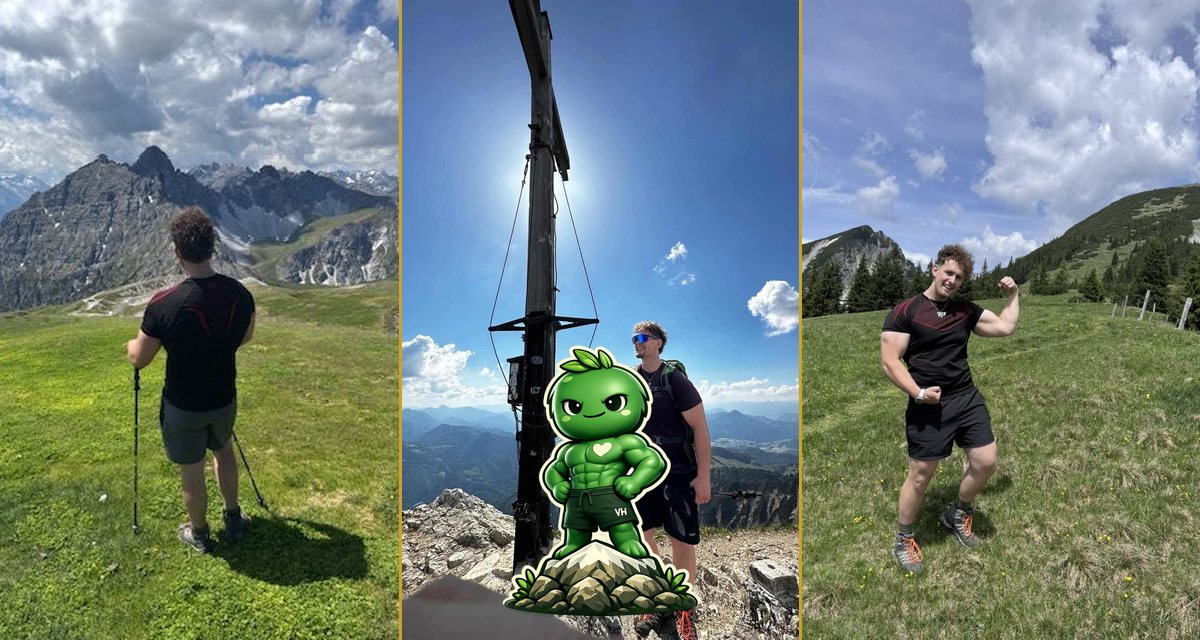
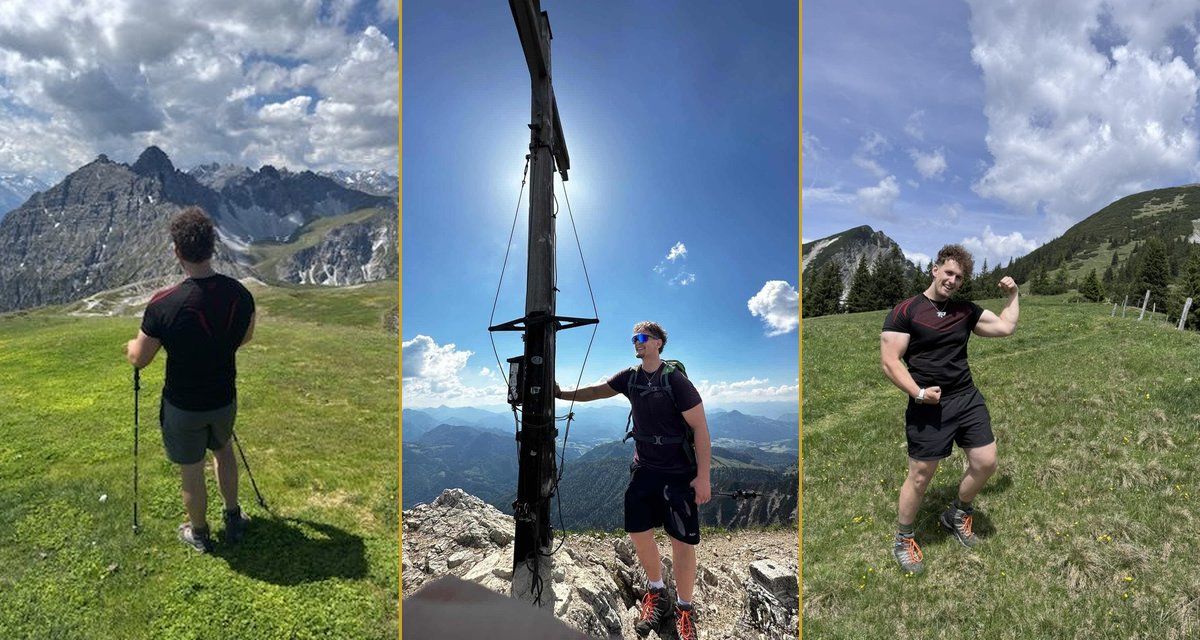
feat(email): v6 — durchgehender Forest-Gradient-Flow, Boxen/Bubbles raus (Touren editorial, Smashie inline), Smashie aus Collage entfernt (?v=3)

Changed region(s): [[0.4008, 0.5312, 0.5858, 0.9688]]

diff --git a/email-templates/welcome-berg-starter.html b/email-templates/welcome-berg-starter.html
@@ -1,154 +1,133 @@
 <!--
   ============================================================
-  VegetarianHulk — Willkommens-Mail „Berg-Starter" (v5)
-  Forest-Frame (dunkelgrün) + Foto-Hero + ausgebauter Footer.
+  VegetarianHulk — Willkommens-Mail „Berg-Starter" (v6)
+  Durchgehender Forest-Gradient-Flow · KEINE Boxen/Bubbles · editorial.
   Brevo HTML-Editor: kompletten Code (ab erstem <table> bis letztem </table>) einfügen.
-  Betreff:      Dein Berg-Starter ist da.
-  Vorschautext: Deine 3 Touren zum Reinkommen — und wie ich selbst angefangen hab.
+  Betreff:      Willkommen — dein Berg-Starter ist da 🏔
+  Vorschautext: Deine 3 Touren zum Reinkommen, die Packliste, und wie ich selbst angefangen hab.
   Merge-Tag:    {{ contact.VORNAME | default : "du" }}   ·   Pflicht: {{ unsubscribe }}
-  FOTO:         src -> Brevo-Upload-URL eintragen ODER Site-URL (live ab Launch).
-                Aktuell: Site-URL (zeigt im Test evtl. Platzhalter, live ab Launch ok).
+  Gradient = Progressive Enhancement (Apple/iOS/Gmail-App); solide bg-color als Outlook-Fallback.
   ============================================================
 -->
-<table role="presentation" width="100%" cellpadding="0" cellspacing="0" border="0" style="margin:0;padding:0;background-color:#0A1E13;background-image:linear-gradient(180deg,#0C2417 0%,#071710 100%);">
-<tr><td align="center" style="padding:36px 12px;">
+<table role="presentation" width="100%" cellpadding="0" cellspacing="0" border="0" style="margin:0;padding:0;background-color:#06140D;">
+<tr><td align="center" style="padding:34px 12px;">
 
-<div style="display:none;max-height:0;overflow:hidden;opacity:0;mso-hide:all;font-size:1px;line-height:1px;color:#0A1E13;">Deine 3 Touren zum Reinkommen, die Packliste, und wie ich selbst angefangen hab.</div>
+<div style="display:none;max-height:0;overflow:hidden;opacity:0;mso-hide:all;font-size:1px;line-height:1px;color:#06140D;">Deine 3 Touren zum Reinkommen, die Packliste, und wie ich selbst angefangen hab.</div>
 
-<!-- KARTE -->
-<table role="presentation" width="600" cellpadding="0" cellspacing="0" border="0" style="width:600px;max-width:600px;background-color:#FBF6EA;border-radius:24px;overflow:hidden;box-shadow:0 30px 70px -24px rgba(0,0,0,0.6);">
+<!-- KARTE = ein Gradient-Flow -->
+<table role="presentation" width="600" cellpadding="0" cellspacing="0" border="0" style="width:600px;max-width:600px;background-color:#0B2418;background-image:radial-gradient(90% 40% at 50% 8%, rgba(126,208,155,0.12) 0%, rgba(126,208,155,0) 60%), linear-gradient(168deg,#164A2B 0%,#0F3520 20%,#0B2418 46%,#0A2016 72%,#07180E 100%);border-radius:24px;overflow:hidden;box-shadow:0 30px 70px -24px rgba(0,0,0,0.7);">
 
-  <!-- Hero-Foto -->
+  <!-- Foto-Collage (nur Fotos) -->
   <tr><td style="font-size:0;line-height:0;background-color:#0B2418;">
-    <img src="https://vegetarianhulk.de/email-templates/assets/hero-collage-mail.jpg?v=2" width="600" alt="Sebi am Berg — Panorama, Gipfelkreuz, Flex — mit Maskottchen Smashie" style="display:block;width:100%;max-width:600px;height:auto;border:0;">
+    <img src="https://vegetarianhulk.de/email-templates/assets/hero-collage-mail.jpg?v=3" width="600" alt="Sebi am Berg — Panorama, Gipfelkreuz, Flex" style="display:block;width:100%;max-width:600px;height:auto;border:0;">
   </td></tr>
 
   <!-- Masthead -->
-  <tr><td align="center" style="background-color:#0B2418;background-image:linear-gradient(158deg,#134026 0%,#0B2418 60%,#05130C 100%);padding:18px 24px 16px 24px;">
+  <tr><td align="center" style="padding:22px 24px 0 24px;">
     <div style="font-family:Helvetica,Arial,sans-serif;font-size:14px;font-weight:700;letter-spacing:0.36em;color:#F3EBD9;">VEGETARIAN<span style="color:#7ED09B;">HULK</span></div>
     <div style="margin-top:7px;font-family:Georgia,'Times New Roman',serif;font-style:italic;font-size:12.5px;color:#8FB79C;">aus den Bergen · seit 2016</div>
+    <div style="margin:18px auto 0;width:46px;height:2px;background-color:#C9A227;font-size:0;line-height:2px;">&nbsp;</div>
   </td></tr>
-  <tr><td style="height:3px;background-color:#C9A227;background-image:linear-gradient(90deg,#B8901E,#F0CB4B,#B8901E);line-height:3px;font-size:0;">&nbsp;</td></tr>
 
   <!-- Intro -->
-  <tr><td style="background-color:#FBF6EA;background-image:linear-gradient(180deg,#FDFAF1 0%,#FBF6EA 40%);padding:40px 46px 0 46px;">
-    <div style="font-family:Helvetica,Arial,sans-serif;font-size:11px;font-weight:700;letter-spacing:0.22em;text-transform:uppercase;color:#9A7A10;">Willkommen · dein Berg-Starter</div>
-    <h1 style="margin:14px 0 0 0;font-family:Georgia,'Times New Roman',serif;font-size:38px;line-height:1.08;font-weight:700;color:#14281C;letter-spacing:-0.5px;">Schön, dass du <span style="font-style:italic;color:#1a7340;">da bist.</span></h1>
-    <p style="margin:22px 0 0 0;font-family:Helvetica,Arial,sans-serif;font-size:16px;line-height:1.66;color:#3f4b42;">Hey {{ contact.VORNAME | default : "du" }}, wie versprochen — dein <strong style="color:#14281C;">Berg-Starter</strong>. Drei Touren zum Reinkommen, was wirklich in den Rucksack gehört, und ehrlich, wie ich selbst angefangen hab (mit viel zu schwerem Zeug und Baumwoll-Shirt am Grat).</p>
+  <tr><td style="padding:30px 46px 0 46px;">
+    <div style="font-family:Helvetica,Arial,sans-serif;font-size:11px;font-weight:700;letter-spacing:0.22em;text-transform:uppercase;color:#D8B24A;">Willkommen · dein Berg-Starter</div>
+    <h1 style="margin:14px 0 0 0;font-family:Georgia,'Times New Roman',serif;font-size:39px;line-height:1.08;font-weight:700;color:#F5EEDD;letter-spacing:-0.5px;">Schön, dass du <span style="font-style:italic;color:#7ED09B;">da bist.</span></h1>
+    <p style="margin:22px 0 0 0;font-family:Helvetica,Arial,sans-serif;font-size:16px;line-height:1.68;color:#C4D0C4;">Hey {{ contact.VORNAME | default : "du" }}, wie versprochen — dein <strong style="color:#F5EEDD;">Berg-Starter</strong>. Drei Touren zum Reinkommen, was wirklich in den Rucksack gehört, und ehrlich, wie ich selbst angefangen hab (mit viel zu schwerem Zeug und Baumwoll-Shirt am Grat).</p>
   </td></tr>
 
-  <!-- Eyebrow Touren -->
-  <tr><td style="padding:32px 46px 0 46px;">
+  <!-- Touren-Eyebrow -->
+  <tr><td style="padding:34px 46px 0 46px;">
     <table role="presentation" width="100%" cellpadding="0" cellspacing="0" border="0"><tr>
       <td width="26" style="padding-right:12px;"><div style="height:2px;background-color:#C9A227;font-size:0;line-height:2px;">&nbsp;</div></td>
-      <td style="font-family:Helvetica,Arial,sans-serif;font-size:11px;font-weight:700;letter-spacing:0.2em;text-transform:uppercase;color:#9A7A10;white-space:nowrap;">Deine 3 Touren zum Reinkommen</td>
-      <td style="padding-left:12px;width:100%;"><div style="height:2px;background-color:#E4D6B0;font-size:0;line-height:2px;">&nbsp;</div></td>
+      <td style="font-family:Helvetica,Arial,sans-serif;font-size:11px;font-weight:700;letter-spacing:0.2em;text-transform:uppercase;color:#D8B24A;white-space:nowrap;">Deine 3 Touren zum Reinkommen</td>
+      <td style="padding-left:12px;width:100%;"><div style="height:1px;background-color:#254A34;font-size:0;line-height:1px;">&nbsp;</div></td>
     </tr></table>
   </td></tr>
 
-  <!-- Touren-Teaser -->
-  <tr><td style="padding:18px 46px 0 46px;">
-    <table role="presentation" width="100%" cellpadding="0" cellspacing="0" border="0" style="background-color:#F3E9D2;background-image:linear-gradient(180deg,#F7EED9 0%,#EEE1C2 100%);border:1px solid #E2D3A9;border-radius:16px;box-shadow:inset 0 1px 0 rgba(255,255,255,0.7),0 12px 26px -16px rgba(11,36,24,0.3);">
-      <tr><td style="padding:22px 24px;">
-        <table role="presentation" width="100%" cellpadding="0" cellspacing="0" border="0"><tr>
-          <td width="48" valign="top" style="font-family:Georgia,'Times New Roman',serif;font-size:28px;font-weight:700;color:#C39B1E;line-height:0.9;">01</td>
-          <td valign="top">
-            <div style="font-family:Georgia,'Times New Roman',serif;font-size:19px;font-weight:700;color:#14281C;">Grünstein <span style="font-family:Helvetica,Arial,sans-serif;font-size:11px;font-weight:700;letter-spacing:0.06em;color:#6a7a6f;">1.304 m · Berchtesgaden</span></div>
-            <div style="margin-top:3px;font-family:Helvetica,Arial,sans-serif;font-size:14px;line-height:1.5;color:#5a6a5f;">Hütte, Postkarten-Blick über den Königssee.</div>
-          </td>
-        </tr></table>
-        <div style="height:1px;background-color:#E2D3A9;font-size:0;line-height:1px;margin:16px 0;">&nbsp;</div>
-        <table role="presentation" width="100%" cellpadding="0" cellspacing="0" border="0"><tr>
-          <td width="48" valign="top" style="font-family:Georgia,'Times New Roman',serif;font-size:28px;font-weight:700;color:#C39B1E;line-height:0.9;">02</td>
-          <td valign="top">
-            <div style="font-family:Georgia,'Times New Roman',serif;font-size:19px;font-weight:700;color:#14281C;">Zinnkopf <span style="font-family:Helvetica,Arial,sans-serif;font-size:11px;font-weight:700;letter-spacing:0.06em;color:#6a7a6f;">1.227 m · Chiemgau</span></div>
-            <div style="margin-top:3px;font-family:Helvetica,Arial,sans-serif;font-size:14px;line-height:1.5;color:#5a6a5f;">Einsam, Gipfelkreuz — zum Runterkommen.</div>
-          </td>
-        </tr></table>
-        <div style="height:1px;background-color:#E2D3A9;font-size:0;line-height:1px;margin:16px 0;">&nbsp;</div>
-        <table role="presentation" width="100%" cellpadding="0" cellspacing="0" border="0"><tr>
-          <td width="48" valign="top" style="font-family:Georgia,'Times New Roman',serif;font-size:28px;font-weight:700;color:#C39B1E;line-height:0.9;">03</td>
-          <td valign="top">
-            <div style="font-family:Georgia,'Times New Roman',serif;font-size:19px;font-weight:700;color:#14281C;">Dürrnbachhorn <span style="font-family:Helvetica,Arial,sans-serif;font-size:11px;font-weight:700;letter-spacing:0.06em;color:#6a7a6f;">1.776 m · Chiemgau</span></div>
-            <div style="margin-top:3px;font-family:Helvetica,Arial,sans-serif;font-size:14px;line-height:1.5;color:#5a6a5f;">Weitblick übers Umland, Latschen-Grat.</div>
-          </td>
-        </tr></table>
-      </td></tr>
-    </table>
+  <!-- Touren als editoriale Liste (KEINE Box) -->
+  <tr><td style="padding:20px 46px 0 46px;">
+    <table role="presentation" width="100%" cellpadding="0" cellspacing="0" border="0"><tr>
+      <td width="52" valign="top" style="font-family:Georgia,'Times New Roman',serif;font-size:30px;font-weight:700;color:#D8B24A;line-height:0.9;">01</td>
+      <td valign="top">
+        <div style="font-family:Georgia,'Times New Roman',serif;font-size:20px;font-weight:700;color:#F3EBD9;">Grünstein <span style="font-family:Helvetica,Arial,sans-serif;font-size:11px;font-weight:700;letter-spacing:0.06em;color:#8FB79C;">1.304 m · Berchtesgaden</span></div>
+        <div style="margin-top:3px;font-family:Helvetica,Arial,sans-serif;font-size:14px;line-height:1.55;color:#A6B4A8;">Hütte, Postkarten-Blick über den Königssee.</div>
+      </td>
+    </tr></table>
+    <div style="height:1px;background-color:#213E2C;font-size:0;line-height:1px;margin:17px 0;">&nbsp;</div>
+    <table role="presentation" width="100%" cellpadding="0" cellspacing="0" border="0"><tr>
+      <td width="52" valign="top" style="font-family:Georgia,'Times New Roman',serif;font-size:30px;font-weight:700;color:#D8B24A;line-height:0.9;">02</td>
+      <td valign="top">
+        <div style="font-family:Georgia,'Times New Roman',serif;font-size:20px;font-weight:700;color:#F3EBD9;">Zinnkopf <span style="font-family:Helvetica,Arial,sans-serif;font-size:11px;font-weight:700;letter-spacing:0.06em;color:#8FB79C;">1.227 m · Chiemgau</span></div>
+        <div style="margin-top:3px;font-family:Helvetica,Arial,sans-serif;font-size:14px;line-height:1.55;color:#A6B4A8;">Einsam, Gipfelkreuz — zum Runterkommen.</div>
+      </td>
+    </tr></table>
+    <div style="height:1px;background-color:#213E2C;font-size:0;line-height:1px;margin:17px 0;">&nbsp;</div>
+    <table role="presentation" width="100%" cellpadding="0" cellspacing="0" border="0"><tr>
+      <td width="52" valign="top" style="font-family:Georgia,'Times New Roman',serif;font-size:30px;font-weight:700;color:#D8B24A;line-height:0.9;">03</td>
+      <td valign="top">
+        <div style="font-family:Georgia,'Times New Roman',serif;font-size:20px;font-weight:700;color:#F3EBD9;">Dürrnbachhorn <span style="font-family:Helvetica,Arial,sans-serif;font-size:11px;font-weight:700;letter-spacing:0.06em;color:#8FB79C;">1.776 m · Chiemgau</span></div>
+        <div style="margin-top:3px;font-family:Helvetica,Arial,sans-serif;font-size:14px;line-height:1.55;color:#A6B4A8;">Weitblick übers Umland, Latschen-Grat.</div>
+      </td>
+    </tr></table>
   </td></tr>
 
-  <!-- Smashie spricht dich an -->
-  <tr><td style="padding:26px 46px 0 46px;">
+  <!-- Smashie spricht — KEINE Box, nur Figur + Zitat -->
+  <tr><td style="padding:30px 46px 0 46px;">
     <table role="presentation" width="100%" cellpadding="0" cellspacing="0" border="0"><tr>
-      <td width="82" valign="top" style="padding-right:14px;">
-        <img src="https://vegetarianhulk.de/assets/img/smashy-maskottchen.png" width="74" alt="Smashie, das VegetarianHulk-Maskottchen" style="display:block;width:74px;height:auto;border:0;">
+      <td width="80" valign="top" style="padding-right:16px;">
+        <img src="https://vegetarianhulk.de/assets/img/smashy-maskottchen.png" width="72" alt="Smashie, das VegetarianHulk-Maskottchen" style="display:block;width:72px;height:auto;border:0;">
       </td>
-      <td valign="top" style="background-color:#0B2418;background-image:linear-gradient(158deg,#123B23 0%,#0B2418 100%);border-radius:14px;padding:14px 18px;">
+      <td valign="middle">
         <div style="font-family:Helvetica,Arial,sans-serif;font-size:10px;font-weight:700;letter-spacing:0.2em;text-transform:uppercase;color:#7ED09B;">Smashie sagt</div>
-        <div style="margin-top:5px;font-family:Georgia,'Times New Roman',serif;font-size:15.5px;line-height:1.5;color:#EDE4CF;">Fang mit <strong style="color:#FFFFFF;">Grünstein</strong> an — Hütte oben, Blick über den Königssee. Der perfekte erste Gipfel. Wir sehen uns da. 🌱</div>
+        <div style="margin-top:6px;font-family:Georgia,'Times New Roman',serif;font-style:italic;font-size:16.5px;line-height:1.5;color:#E7DEC8;">„Fang mit <span style="color:#F5EEDD;font-style:normal;font-weight:700;">Grünstein</span> an — Hütte oben, Blick über den Königssee. Wir sehen uns da." 🌱</div>
       </td>
     </tr></table>
   </td></tr>
 
   <!-- CTA -->
-  <tr><td align="center" style="padding:28px 46px 6px 46px;">
+  <tr><td align="center" style="padding:32px 46px 6px 46px;">
     <table role="presentation" cellpadding="0" cellspacing="0" border="0"><tr>
-      <td align="center" bgcolor="#E4B824" style="border-radius:13px;background-color:#E4B824;background-image:linear-gradient(180deg,#F4CE3C 0%,#E4B824 52%,#C99C12 100%);box-shadow:0 12px 24px -8px rgba(176,133,12,0.55);">
-        <a href="https://vegetarianhulk.de/berg-starter/" target="_blank" style="display:inline-block;padding:17px 38px;font-family:Helvetica,Arial,sans-serif;font-size:14px;font-weight:700;letter-spacing:0.09em;text-transform:uppercase;color:#14100A;text-decoration:none;border-radius:13px;">Alle 3 Touren öffnen &nbsp;&rarr;</a>
+      <td align="center" bgcolor="#E4B824" style="border-radius:13px;background-color:#E4B824;background-image:linear-gradient(180deg,#F6D24A 0%,#E4B824 52%,#C6980F 100%);box-shadow:0 14px 30px -8px rgba(230,184,36,0.4);">
+        <a href="https://vegetarianhulk.de/berg-starter/" target="_blank" style="display:inline-block;padding:17px 40px;font-family:Helvetica,Arial,sans-serif;font-size:14px;font-weight:700;letter-spacing:0.09em;text-transform:uppercase;color:#14100A;text-decoration:none;border-radius:13px;">Alle 3 Touren öffnen &nbsp;&rarr;</a>
       </td>
     </tr></table>
-    <div style="margin-top:13px;font-family:Helvetica,Arial,sans-serif;font-size:12px;color:#9a8f78;">Plus Packliste &amp; wie ich selbst reingekommen bin.</div>
+    <div style="margin-top:13px;font-family:Helvetica,Arial,sans-serif;font-size:12px;color:#7E9184;">Plus Packliste &amp; wie ich selbst reingekommen bin.</div>
   </td></tr>
 
   <!-- Close -->
-  <tr><td style="padding:28px 46px 0 46px;">
-    <p style="margin:0;font-family:Helvetica,Arial,sans-serif;font-size:16px;line-height:1.66;color:#3f4b42;">Ab jetzt meldet sich ab und zu ein kurzer Brief von mir: neue Touren zuerst, ehrliche Gedanken, ab und zu ein Vers, der mich trägt. Kein Spam, kein Verkaufs-Blabla.</p>
+  <tr><td style="padding:30px 46px 0 46px;">
+    <p style="margin:0;font-family:Helvetica,Arial,sans-serif;font-size:16px;line-height:1.68;color:#C4D0C4;">Ab jetzt meldet sich ab und zu ein kurzer Brief von mir: neue Touren zuerst, ehrliche Gedanken, ab und zu ein Vers, der mich trägt. Kein Spam, kein Verkaufs-Blabla.</p>
   </td></tr>
 
   <!-- Signatur -->
-  <tr><td style="padding:26px 46px 40px 46px;">
-    <p style="margin:0;font-family:Georgia,'Times New Roman',serif;font-style:italic;font-size:20px;line-height:1.4;color:#14281C;">Man sieht sich am Berg.</p>
-    <p style="margin:8px 0 0 0;font-family:Helvetica,Arial,sans-serif;font-size:14px;font-weight:700;letter-spacing:0.04em;color:#045927;">— Sebi</p>
+  <tr><td style="padding:26px 46px 0 46px;">
+    <p style="margin:0;font-family:Georgia,'Times New Roman',serif;font-style:italic;font-size:21px;line-height:1.4;color:#F5EEDD;">Man sieht sich am Berg.</p>
+    <p style="margin:8px 0 0 0;font-family:Helvetica,Arial,sans-serif;font-size:14px;font-weight:700;letter-spacing:0.04em;color:#7ED09B;">— Sebi</p>
   </td></tr>
 
-</table>
-
-<!-- ===================== FOOTER (auf Forest-BG) ===================== -->
-<table role="presentation" width="600" cellpadding="0" cellspacing="0" border="0" style="width:600px;max-width:600px;">
-
-  <!-- Anker-Vers -->
-  <tr><td align="center" style="padding:34px 40px 26px 40px;">
-    <p style="margin:0;font-family:Georgia,'Times New Roman',serif;font-style:italic;font-size:17px;line-height:1.5;color:#D9E4D6;">„Der Gerechte fällt siebenmal — und steht wieder auf."</p>
-    <p style="margin:9px 0 0 0;font-family:Helvetica,Arial,sans-serif;font-size:10px;font-weight:700;letter-spacing:0.22em;text-transform:uppercase;color:#7ED09B;">Sprüche 24,16 · Schlachter 2000</p>
+  <!-- Vers -->
+  <tr><td align="center" style="padding:34px 46px 6px 46px;">
+    <div style="width:34px;height:1px;background-color:#2C513A;margin:0 auto 20px;font-size:0;line-height:1px;">&nbsp;</div>
+    <p style="margin:0;font-family:Georgia,'Times New Roman',serif;font-style:italic;font-size:16px;line-height:1.5;color:#B9C6B8;">„Der Gerechte fällt siebenmal — und steht wieder auf."</p>
+    <p style="margin:9px 0 0 0;font-family:Helvetica,Arial,sans-serif;font-size:10px;font-weight:700;letter-spacing:0.22em;text-transform:uppercase;color:#6F9A7C;">Sprüche 24,16 · Schlachter 2000</p>
   </td></tr>
 
-  <!-- Gold-Trenner -->
-  <tr><td align="center" style="padding:0 40px;"><div style="width:44px;height:2px;background-color:#C9A227;font-size:0;line-height:2px;margin:0 auto;">&nbsp;</div></td></tr>
-
-  <!-- Wortmarke + Links -->
-  <tr><td align="center" style="padding:24px 40px 0 40px;">
-    <div style="font-family:Helvetica,Arial,sans-serif;font-size:13px;font-weight:700;letter-spacing:0.32em;color:#EDE4CF;">VEGETARIAN<span style="color:#7ED09B;">HULK</span></div>
-    <div style="margin-top:14px;font-family:Helvetica,Arial,sans-serif;font-size:13px;font-weight:600;letter-spacing:0.02em;color:#9FB6A4;">
-      <a href="https://www.instagram.com/vegetarianhulk/" target="_blank" style="color:#9FB6A4;text-decoration:none;">Instagram</a>
-      &nbsp;&nbsp;·&nbsp;&nbsp;
-      <a href="https://vegetarianhulk.de/touren/" target="_blank" style="color:#9FB6A4;text-decoration:none;">Hulk Hikes</a>
-      &nbsp;&nbsp;·&nbsp;&nbsp;
-      <a href="https://vegetarianhulk.de/kooperationen.html" target="_blank" style="color:#9FB6A4;text-decoration:none;">Kooperationen</a>
+  <!-- Footer (im Flow) -->
+  <tr><td align="center" style="padding:30px 40px 34px 40px;">
+    <div style="font-family:Helvetica,Arial,sans-serif;font-size:12px;font-weight:600;letter-spacing:0.02em;color:#8FB79C;">
+      <a href="https://www.instagram.com/vegetarianhulk/" target="_blank" style="color:#8FB79C;text-decoration:none;">Instagram</a>
+      &nbsp;·&nbsp; <a href="https://vegetarianhulk.de/touren/" target="_blank" style="color:#8FB79C;text-decoration:none;">Hulk Hikes</a>
+      &nbsp;·&nbsp; <a href="https://vegetarianhulk.de/kooperationen.html" target="_blank" style="color:#8FB79C;text-decoration:none;">Kooperationen</a>
     </div>
-  </td></tr>
-
-  <!-- Adresse / Pflicht -->
-  <tr><td align="center" style="padding:22px 40px 8px 40px;">
-    <p style="margin:0;font-family:Helvetica,Arial,sans-serif;font-size:11.5px;line-height:1.7;color:#6E7F73;">
+    <p style="margin:18px 0 0 0;font-family:Helvetica,Arial,sans-serif;font-size:11.5px;line-height:1.7;color:#5E7267;">
       Du bekommst diese Mail, weil du dich für den Berg-Starter eingetragen hast.<br>
-      Sebastian Wimmer · Burghauser Straße 35 · 84533 Haiming · <a href="mailto:info@vegetarianhulk.de" style="color:#6E7F73;">info@vegetarianhulk.de</a>
+      Sebastian Wimmer · Burghauser Straße 35 · 84533 Haiming · <a href="mailto:info@vegetarianhulk.de" style="color:#5E7267;">info@vegetarianhulk.de</a>
     </p>
-    <p style="margin:12px 0 0 0;font-family:Helvetica,Arial,sans-serif;font-size:11.5px;color:#6E7F73;">
+    <p style="margin:11px 0 0 0;font-family:Helvetica,Arial,sans-serif;font-size:11.5px;color:#5E7267;">
       <a href="https://vegetarianhulk.de/impressum.html" target="_blank" style="color:#8FB79C;text-decoration:none;">Impressum</a>
-      &nbsp;·&nbsp;
-      <a href="https://vegetarianhulk.de/datenschutz.html" target="_blank" style="color:#8FB79C;text-decoration:none;">Datenschutz</a>
-      &nbsp;·&nbsp;
-      <a href="{{ unsubscribe }}" target="_blank" style="color:#8FB79C;text-decoration:underline;">Abmelden</a>
+      &nbsp;·&nbsp; <a href="https://vegetarianhulk.de/datenschutz.html" target="_blank" style="color:#8FB79C;text-decoration:none;">Datenschutz</a>
+      &nbsp;·&nbsp; <a href="{{ unsubscribe }}" target="_blank" style="color:#8FB79C;text-decoration:underline;">Abmelden</a>
     </p>
   </td></tr>
 
